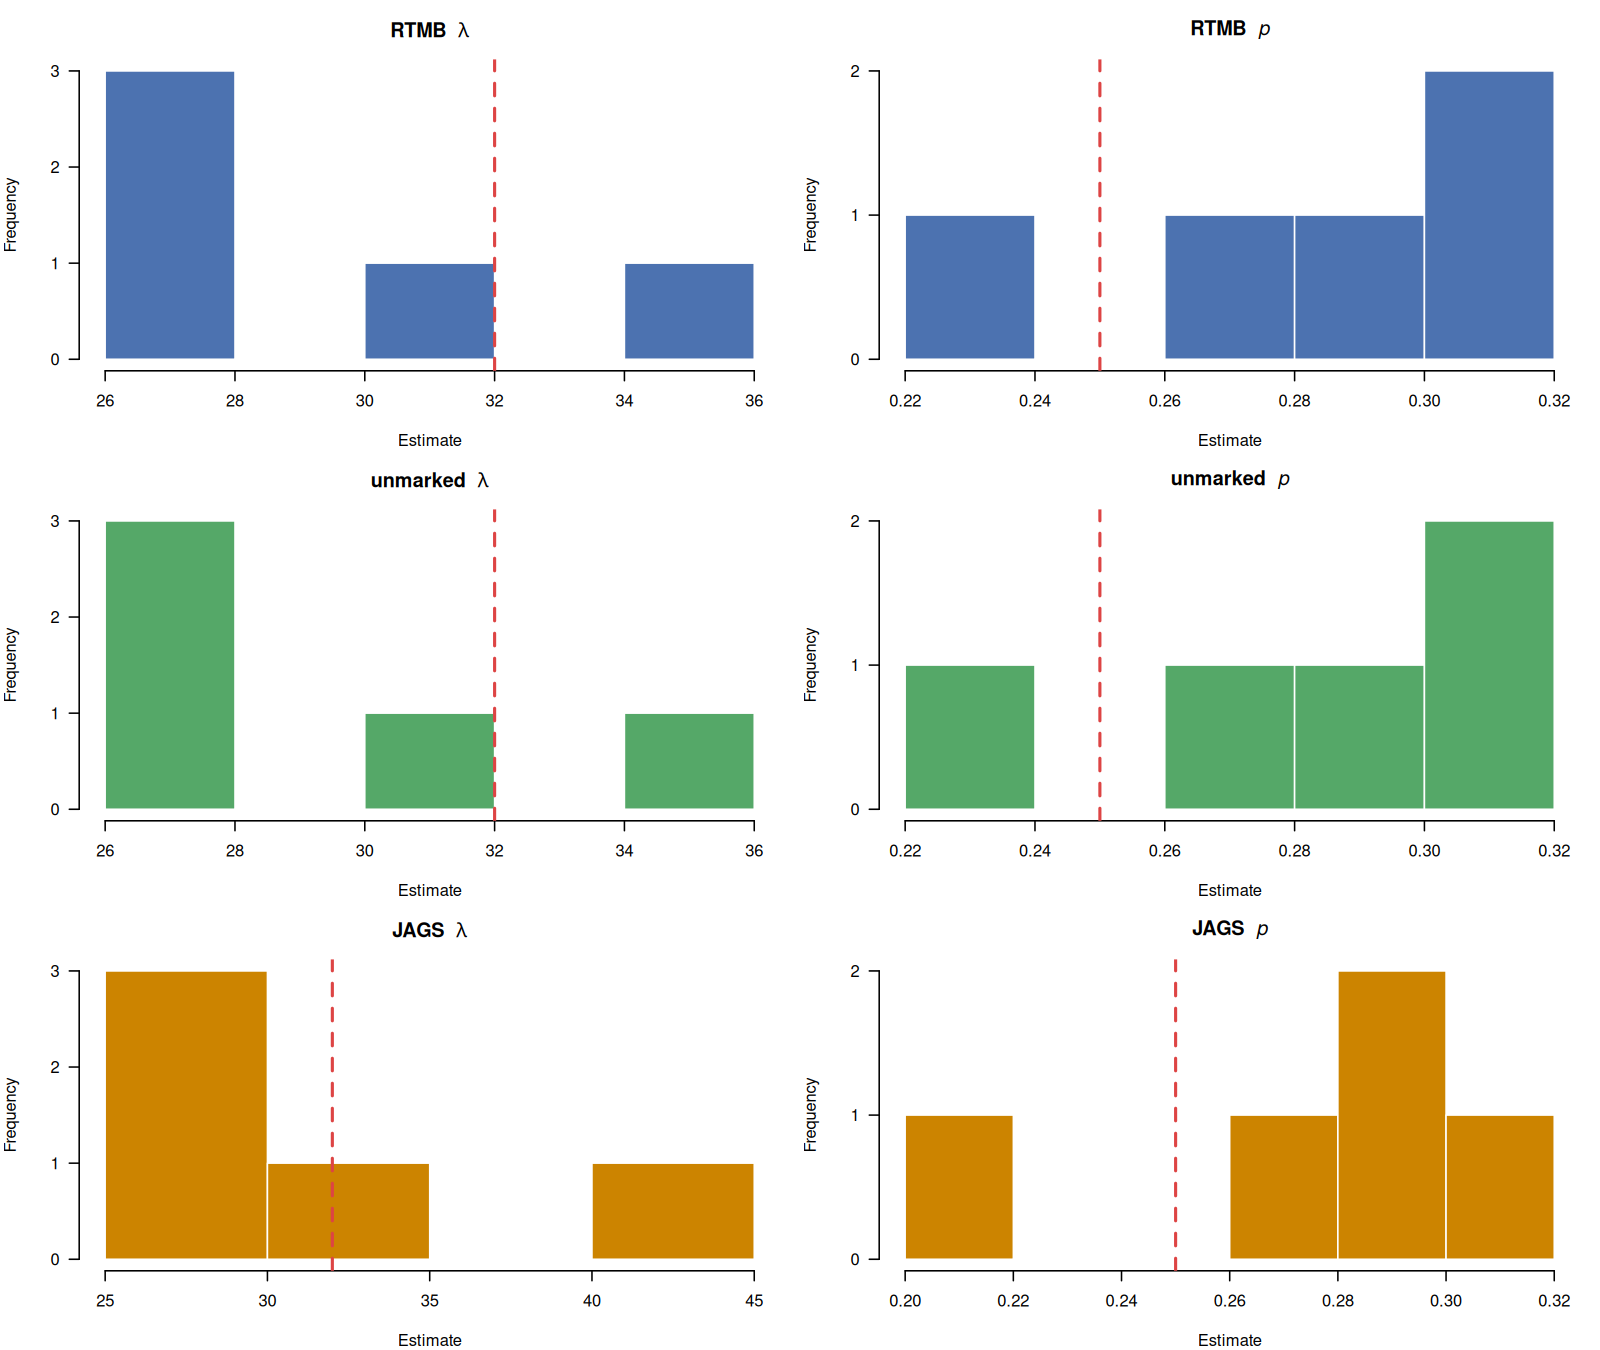
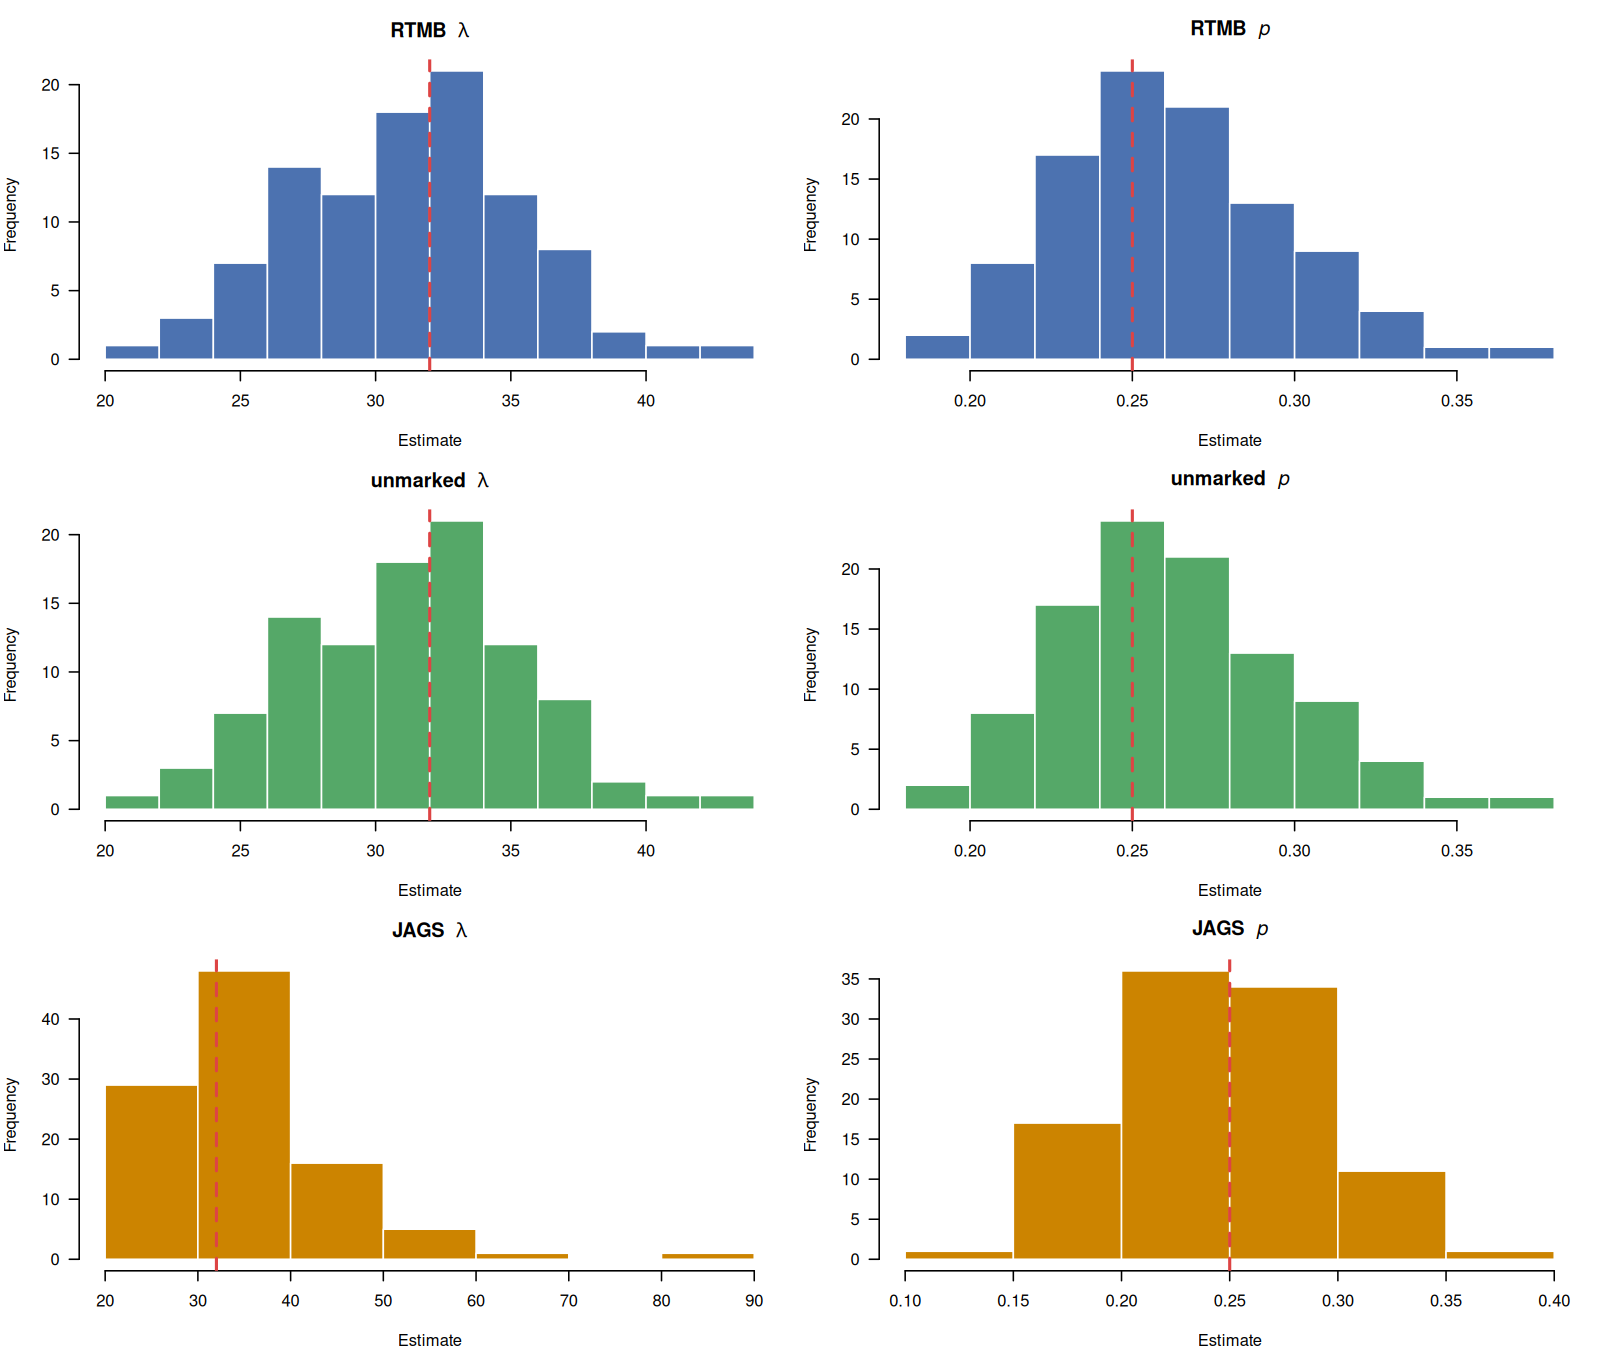
add run

diff --git a/README.md b/README.md
@@ -57,15 +57,11 @@ Mean time per fit (seconds), averaged over 100 simulations. JAGS timings include
 
 | Model | RTMB (s) | unmarked (s) | JAGS (s) | RTMB vs unmarked | RTMB vs JAGS |
 |---|---|---|---|---|---|
-| Occupancy | 0.044 | 0.021 | 6.437 | 0.5x | 146.3x |
-| N-mixture | 0.091 | 0.164 | 25.801 | 1.8x | 283.5x |
-| Dail-Madsen | 0.031 | 0.035 | 181.686 | 1.1x | 5860.8x |
+| Occupancy | 0.087 | 1.459 | 13.384 | 16.8x | 153.8x |
+| N-mixture | 0.154 | 0.268 | 42.055 | 1.7x | 273.1x |
+| Dail-Madsen | 0.006 | 0.328 | 273.608 | 54.7x | 45601.3x |
 
-*JAGS columns will be populated on first run.*
-
-The occupancy model in `unmarked` uses a closed-form marginal likelihood, requiring fewer function evaluations than RTMB's sequential reduction over {0,1}. `unmarked` is therefore expected to be faster for this specific case.
-
-The JAGS Dail-Madsen is expected to be substantially slower than RTMB. JAGS must sample the full latent state space — `N_it` and `S_it` at every site and time step — via Gibbs steps. RTMB avoids this entirely by marginalizing out the discrete states analytically via the forward algorithm, never touching the latent space during optimization. This difference in wall time is a central motivation for the RTMB approach.
+The JAGS Dail-Madsen is expected to be substantially slower than RTMB. JAGS must sample the full latent state space — `N_it` and `S_it` at every site and time step — via Gibbs steps. RTMB avoids this entirely by marginalizing out the discrete states analytically via the forward algorithm. 
 
 ## JAGS MCMC Settings
 
@@ -80,9 +76,9 @@ JAGS settings are configurable at the top of `run_all.R` and `run_all_parallel.R
 
 ## MCMC Convergence Diagnostics
 
-Convergence is assessed using the Gelman-Rubin potential scale reduction factor (R-hat; Gelman & Rubin 1992). R-hat compares within-chain to between-chain variance across the 4 independent chains — values near 1.0 indicate convergence, and a fit is flagged as converged when R-hat < 1.1 for all monitored parameters. Running multiple chains from dispersed initial values is essential: a single chain can appear to have converged while still exploring only a local region of the posterior.
+Convergence is assessed using the Gelman-Rubin potential scale reduction factor (R-hat; Gelman & Rubin 1992). R-hat compares within-chain to between-chain variance across the 4 independent chains — values near 1.0 indicate convergence, and a fit is flagged as converged when R-hat < 1.1 for all monitored parameters. 
 
-Convergence rates across 100 simulations (proportion of fits with R-hat < 1.1 for all parameters):
+Convergence rates across simulations (proportion of fits with R-hat < 1.1 for all parameters):
 
 | Model | Convergence Rate |
 |---|---|
@@ -90,10 +86,7 @@ Convergence rates across 100 simulations (proportion of fits with R-hat < 1.1 fo
 | N-mixture | 0.79 |
 | Dail-Madsen | 0.33 |
 
-The lower convergence rate for Dail-Madsen reflects the difficulty of sampling its high-dimensional latent state space — `N[i,t]`, `S[i,t]`, and `G[i,t]` must all be sampled explicitly via Gibbs steps at every site and time step. RTMB sidesteps this entirely by marginalizing out the discrete states via the forward algorithm, which is a central motivation for this work. Convergence rates and per-simulation R-hat values are printed to the console and saved in `results/timing_summary.md` on each run.
-
-### References
-- Gelman, A. and Rubin, D.B. (1992) Inference from Iterative Simulation Using Multiple Sequences. *Statistical Science* 7:457-472.
+The lower convergence rate for Dail-Madsen reflects the difficulty of sampling its high-dimensional latent state space — `N[i,t]`, `S[i,t]`, and `G[i,t]` must all be sampled explicitly via Gibbs steps at every site and time step. RTMB sidesteps this entirely by marginalizing out the discrete states via the forward algorithm. Convergence rates and per-simulation R-hat values are printed to the console and saved in `results/timing_summary.md` on each run.
 
 ## Repository Structure
 
@@ -178,4 +171,4 @@ This runs `install.R` which installs all required R packages (`RTMB`, `unmarked`
 - Dail, D. and Madsen, L. (2011) Models for Estimating Abundance from Repeated Counts of an Open Metapopulation. *Biometrics* 67:577-587.
 - MacKenzie, D.I. et al. (2002) Estimating Site Occupancy Rates When Detection Probabilities Are Less Than One. *Ecology* 83:2248-2255.
 - Royle, J.A. (2004) N-Mixture Models for Estimating Population Size from Spatially Replicated Counts. *Biometrics* 60:108-115.
-
+- Gelman, A. and Rubin, D.B. (1992) Inference from Iterative Simulation Using Multiple Sequences. *Statistical Science* 7:457-472.

diff --git a/results/timing_summary.md b/results/timing_summary.md
@@ -1,5 +1,5 @@
 | Model | RTMB (s) | unmarked (s) | JAGS (s) | RTMB vs unmarked | RTMB vs JAGS |
 |---|---|---|---|---|---|
-| Occupancy | 0.044 | 0.021 | 6.437 | 0.5x | 146.3x |
-| N-mixture | 0.091 | 0.164 | 25.801 | 1.8x | 283.5x |
-| Dail-Madsen | 0.031 | 0.035 | 181.686 | 1.1x | 5860.8x |
+| Occupancy | 0.087 | 1.459 | 13.384 | 16.8x | 153.8x |
+| N-mixture | 0.154 | 0.268 | 42.055 | 1.7x | 273.1x |
+| Dail-Madsen | 0.006 | 0.328 | 273.608 | 54.7x | 45601.3x |
